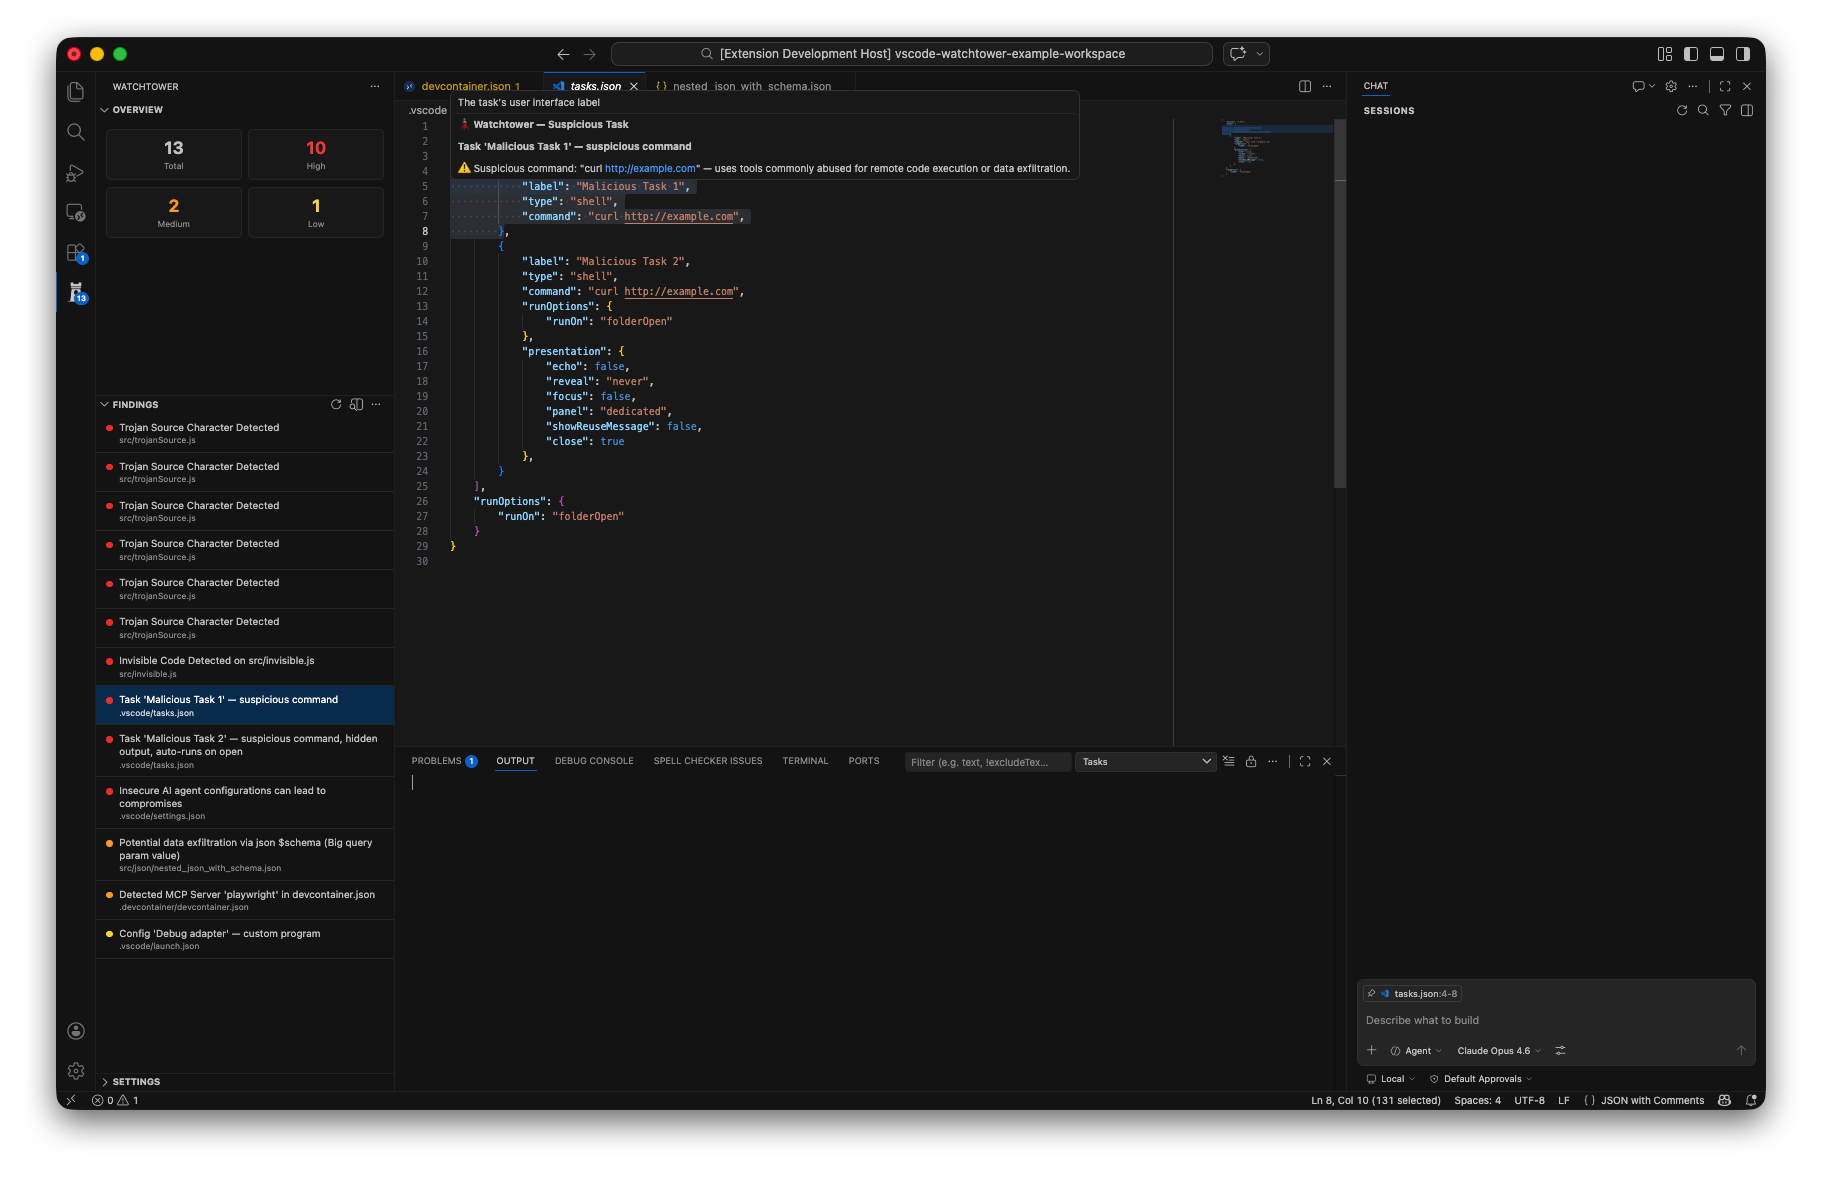
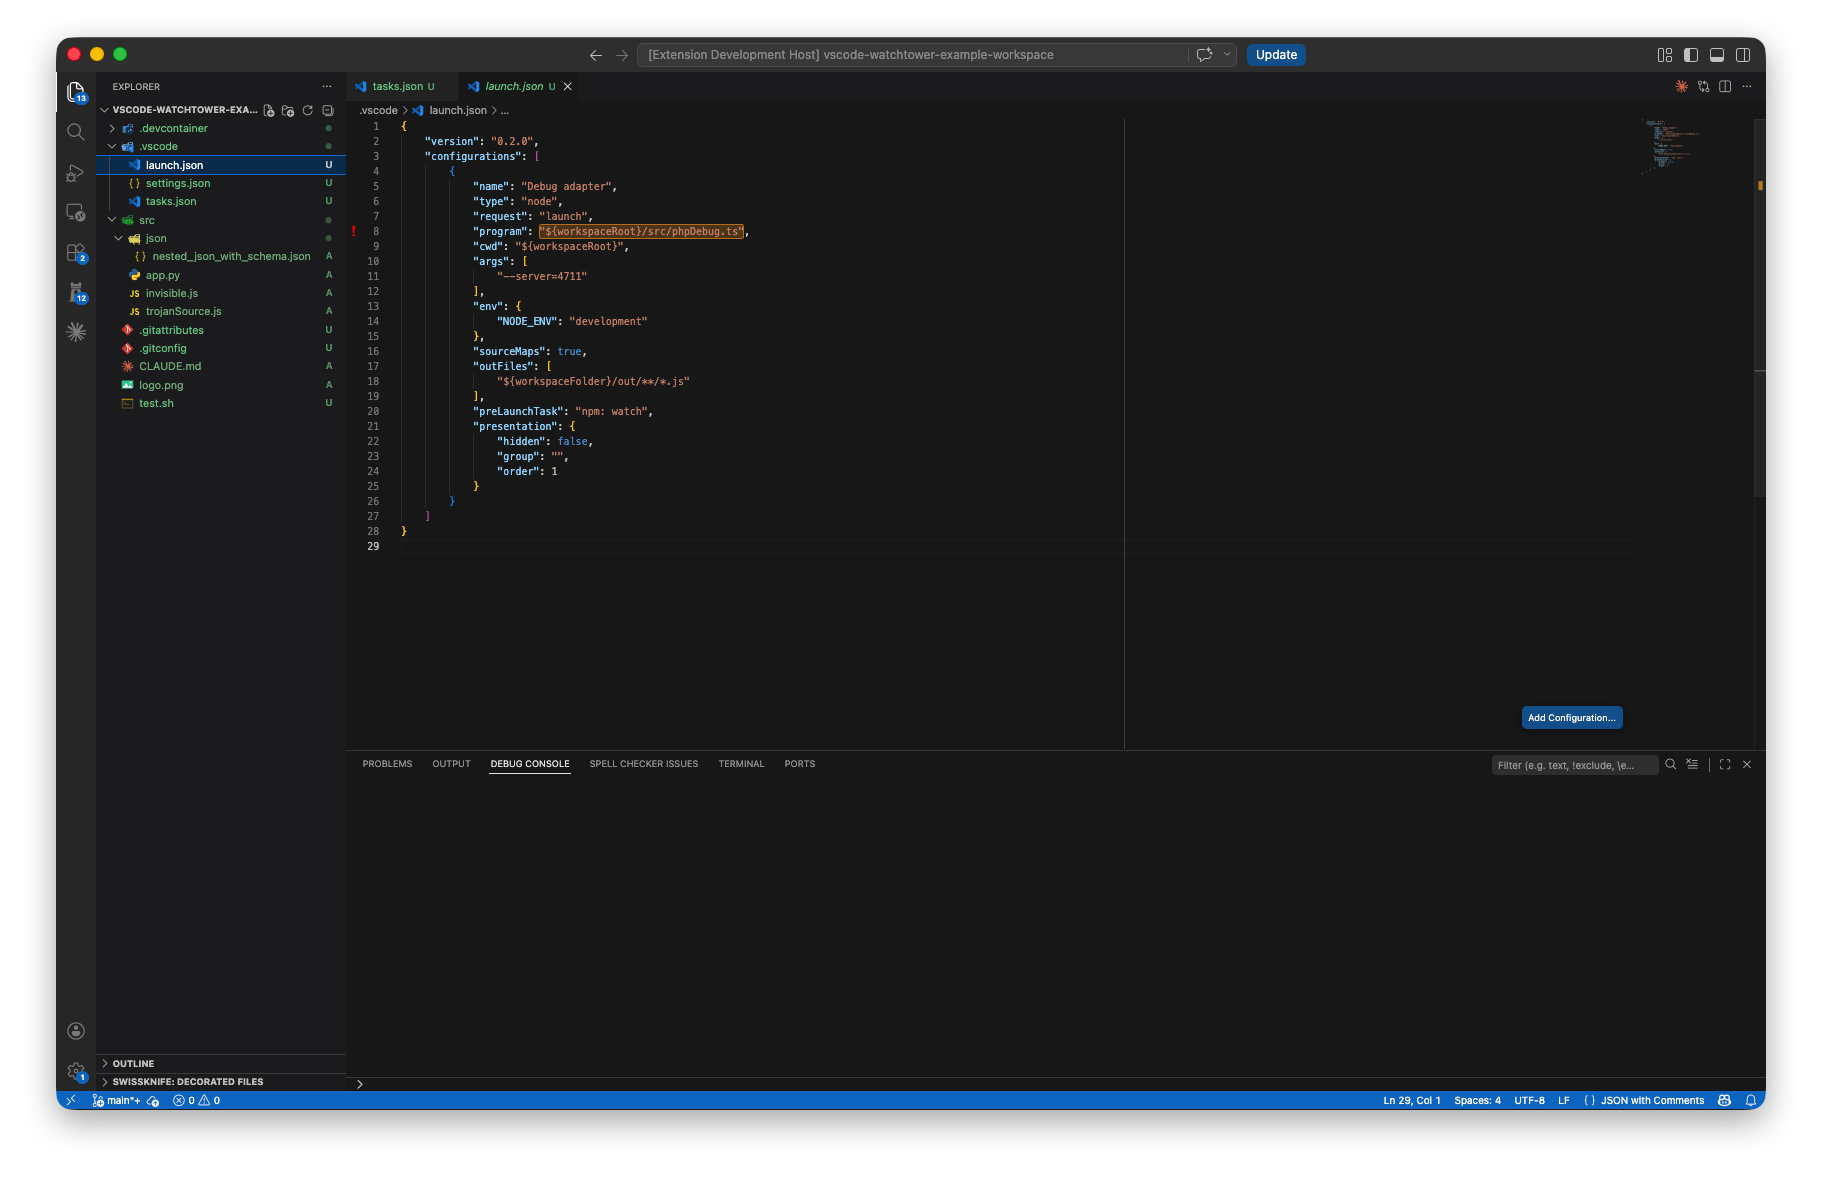
Small tweaks

diff --git a/README.md b/README.md
@@ -35,24 +35,6 @@ And more...
 
 **Manual scan:** `Ctrl+Shift+P` → `Watchtower: Scan Workspace`
 
-## ⚙ Configuration
-
-Access settings via **Settings → Extensions → Watchtower** for global settings or the sidebar settings panel for Workspace specific settings.
-
-### Global Settings
-
-| Setting | Default | Description |
-|---|---|---|
-| `watchtower.startupScans` | `OnEveryProject` | `OnEveryProject` · `OnUntrusted` · `Off` |
-| `watchtower.inlineFindings` | `invisible` | Inline highlights: `all` · `invisible` · `none` |
-| `watchtower.autoUninstallMalicious` | `true` | Auto-remove extensions flagged by threat intel |
-| `watchtower.excludedFolders` | `node_modules`, `.git`, `.venv`… | Glob patterns to skip during scanning |
-
-### Workspace Settings
-
-![Workspace settings panel](data/images/redesigned-settings-panel.jpg)
-
-
 ## 🎯 Real-World Attack Context
 
 Watchtower was built in response to documented, active attack campaigns targeting developers:
